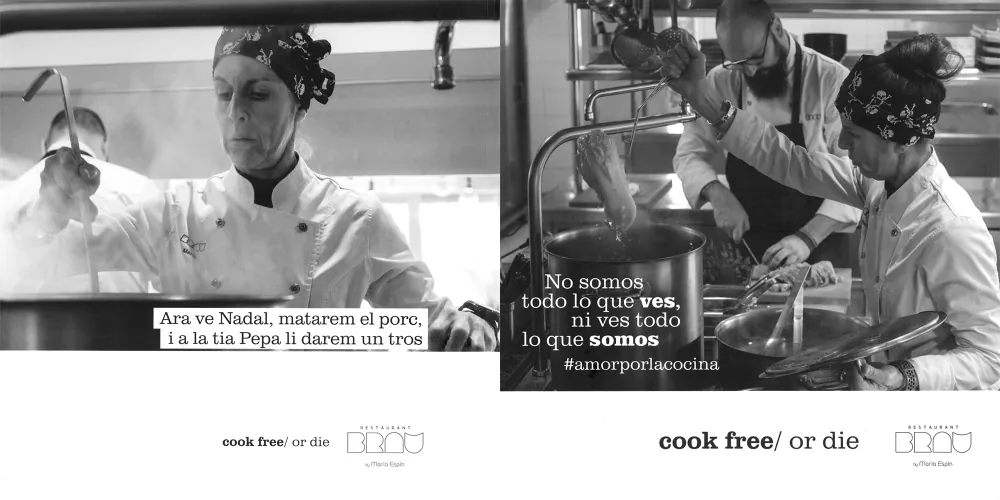
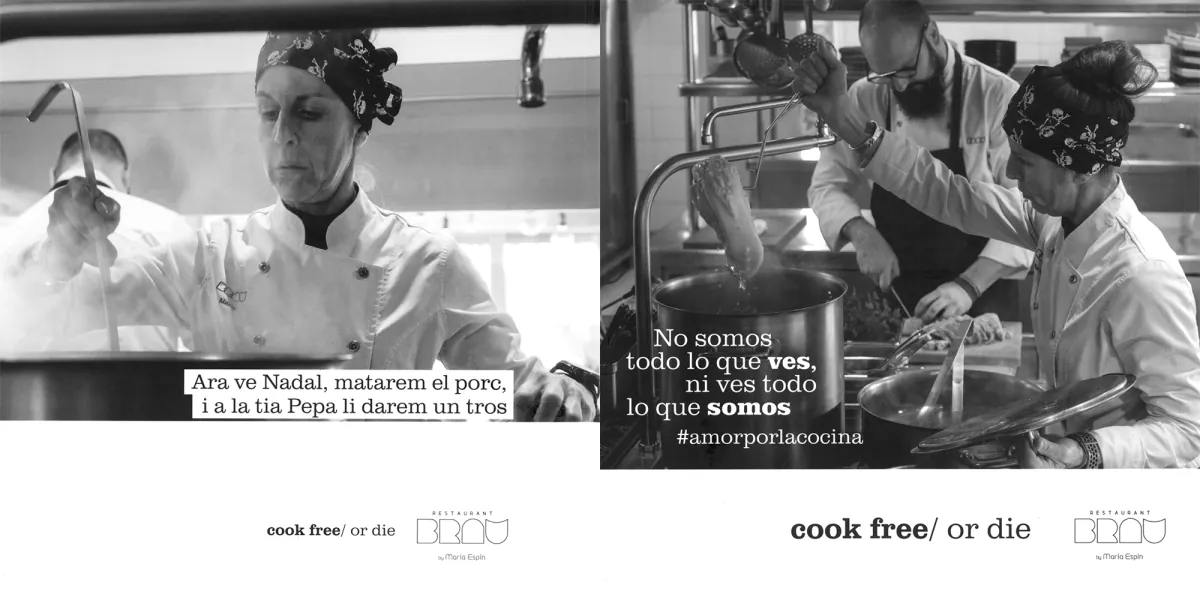
feat: add add-photo.sh to generate grid + full webps from a master

diff --git a/css/style.css b/css/style.css
@@ -172,16 +172,14 @@ a { color: inherit; text-decoration: none; }
 .r-43 { aspect-ratio: 4 / 3; }
 .r-34 { aspect-ratio: 3 / 4; }
 .r-11 { aspect-ratio: 1 / 1; }
-.r-21 { aspect-ratio: 2 / 1; }
 
-/* Real photos sit in the same grid as the placeholders: fill the cell,
-   crop with object-fit so the declared ratio always holds. No frame, just
-   the picture over the background. */
+/* Real photos sit in the grid at their natural shape — no frame, no crop,
+   just the picture over the background. The width/height attributes on the
+   <img> reserve the right space so nothing jumps as the image loads. */
 .photo {
   display: block;
   width: 100%;
-  height: 100%;
-  object-fit: cover;
+  height: auto;
   cursor: zoom-in;
 }
 /* A landscape spread reads better spanning two columns (full width on the

diff --git a/index.html b/index.html
@@ -76,7 +76,7 @@
       </div>
 
       <div class="photo-grid">
-        <img class="photo photo-wide r-21" src="/photography/brau-cook-free.webp" data-full="/photography/brau-cook-free-full.webp" alt="Restaurant Brau &mdash; &lsquo;cook free / or die&rsquo; campaign back covers" width="1000" height="500" loading="lazy">
+        <img class="photo photo-wide" src="/photography/brau-cook-free.webp" data-full="/photography/brau-cook-free-full.webp" alt="Restaurant Brau &mdash; &lsquo;cook free / or die&rsquo; campaign back covers" width="1200" height="600" loading="lazy">
         <div class="ph ph-photo r-11"><span>photo</span></div>
         <div class="ph ph-photo r-34"><span>photo</span></div>
         <div class="ph ph-photo r-43"><span>photo</span></div>